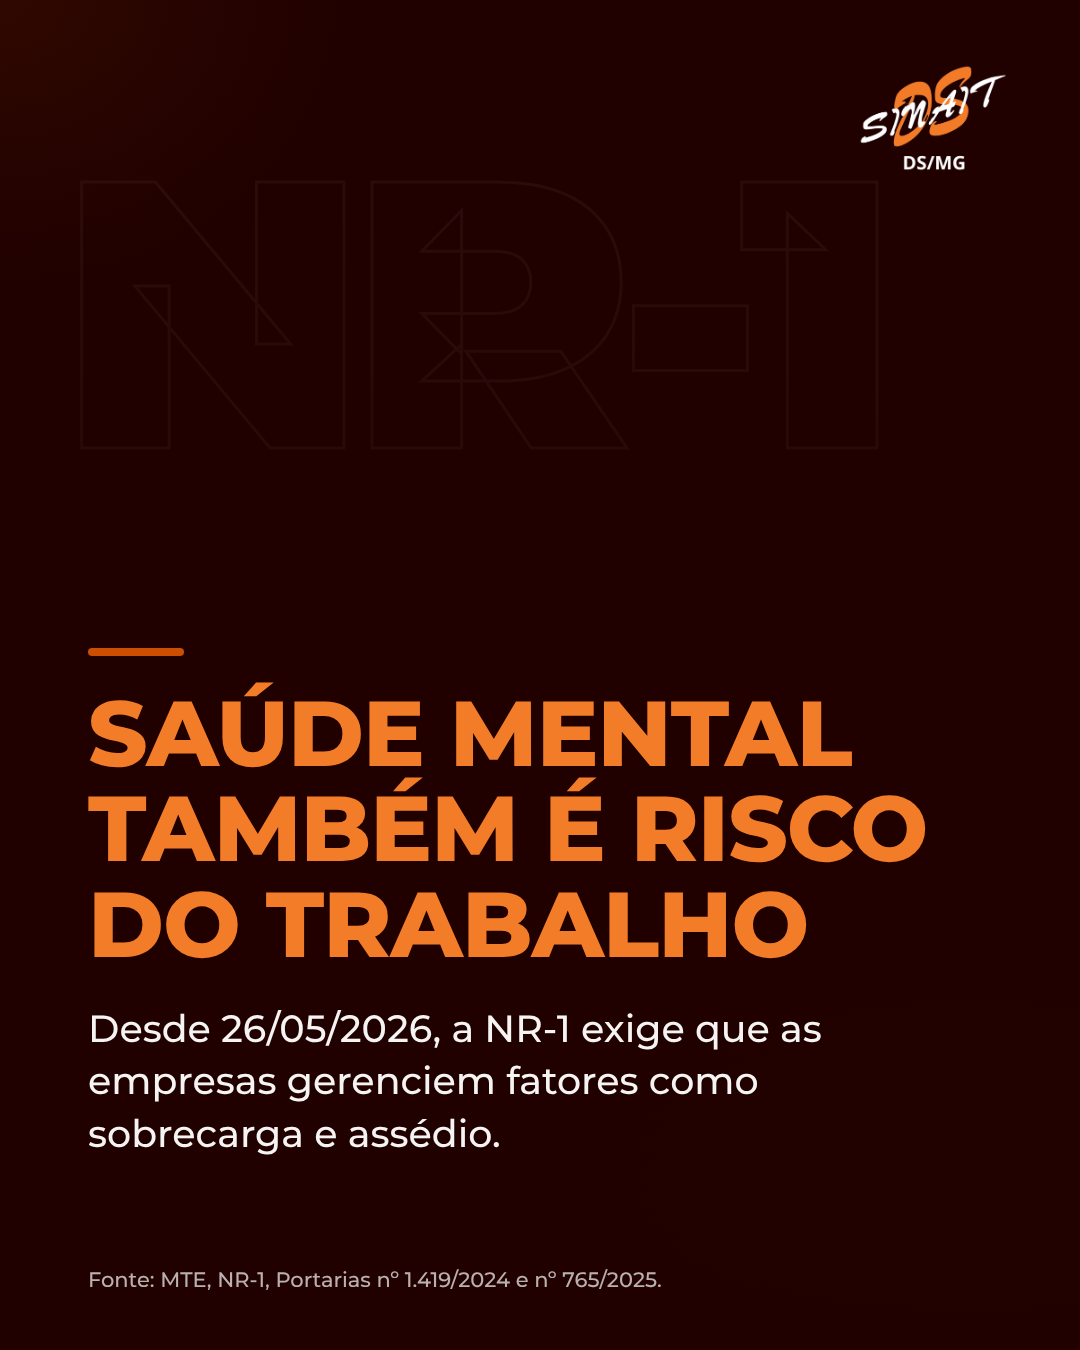
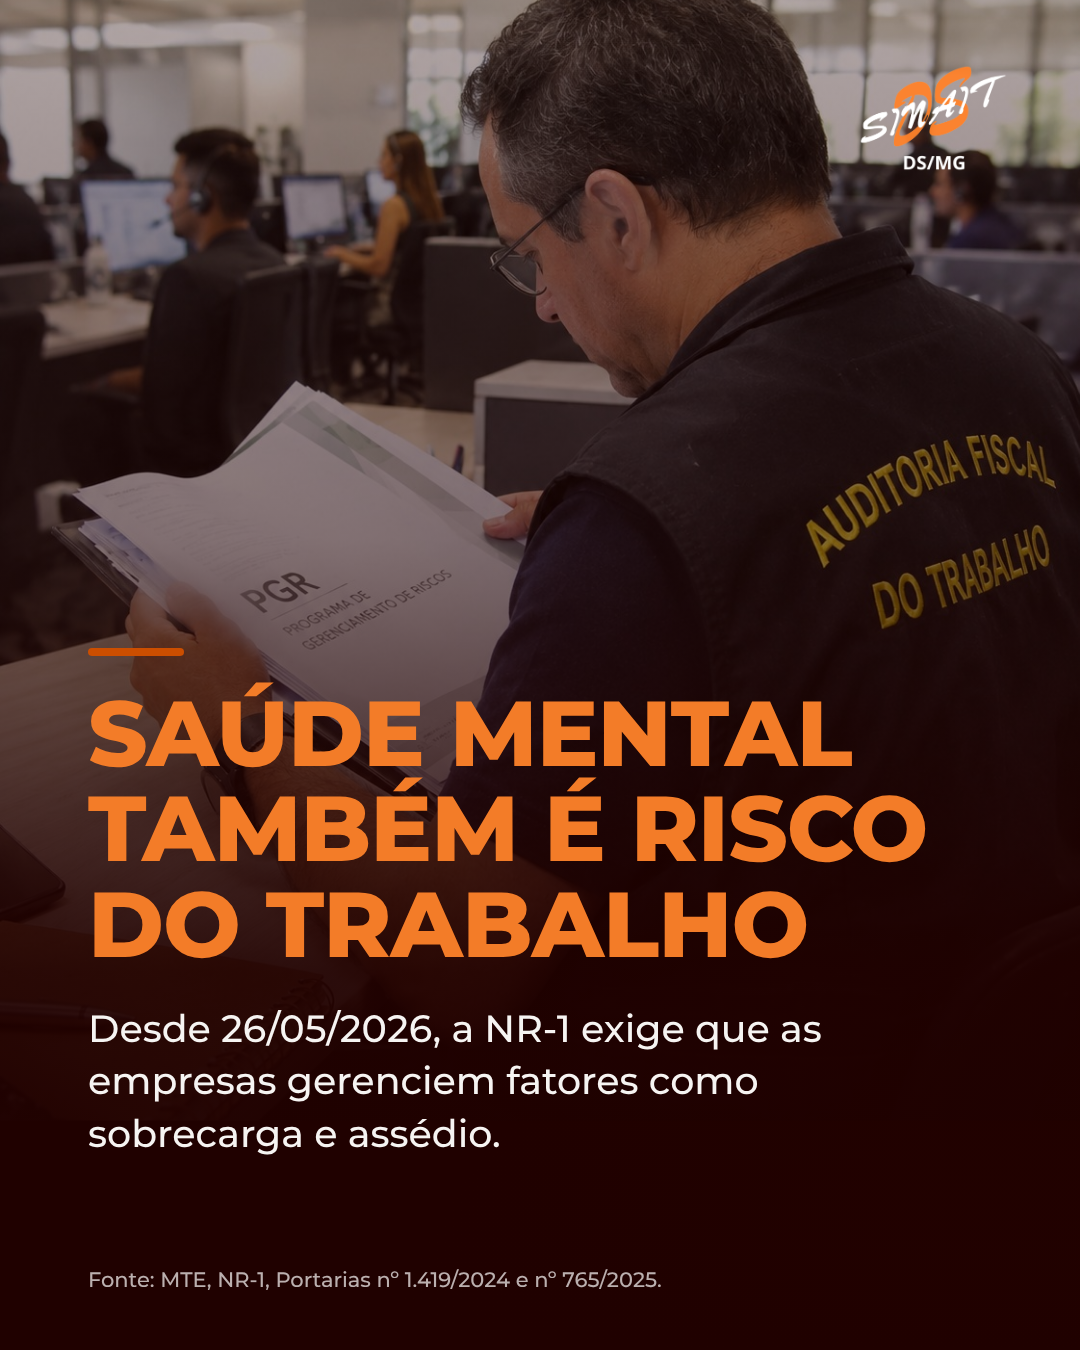
Aplica as fotos enviadas nas capas e posts únicos de novembro
Claude-Session: https://claude.ai/code/session_011HvaTJFJJFHDm1z7jLavn3

diff --git a/posts-novembro-2026/index.html b/posts-novembro-2026/index.html
@@ -85,7 +85,7 @@ body.export .wrap { width: 1080px; height: 1350px; aspect-ratio: auto; }
 // foto: arquivo em fotos/ (ex.: fotos/04-11.jpg). Se não existir, entra a versão tipográfica.
 const F_GUIA = 'MTE, Guia de Informações sobre os Fatores de Riscos Psicossociais Relacionados ao Trabalho (2025).';
 const POSTS = [
-  { id: '04-11-discriminacao-no-trabalho', data: '04/11', nome: 'Carrossel · Discriminação no trabalho: o que a lei proíbe', foto: '04-11', ghost: 'Igualdade', slides: [
+  { id: '04-11-discriminacao-no-trabalho', data: '04/11', nome: 'Carrossel · Discriminação no trabalho: o que a lei proíbe', foto: '04-11', fotoStyle: 'transform:translateY(-21%)', ghost: 'Igualdade', slides: [
     { tipo: 'capa', titulo: 'Discriminação no trabalho', texto: 'Novembro: mês de falar de igualdade de oportunidades.' },
     { eyebrow: 'Está na Constituição', titulo: 'É proibido diferenciar', texto: 'salário, função ou critério de admissão por sexo, idade, cor ou estado civil.*', fonte: '*CF/88, art. 7º, XXX.' },
     { eyebrow: 'E tem lei específica', titulo: 'Lei 9.029/1995', texto: 'Proíbe qualquer prática discriminatória para entrar ou continuar no emprego, por sexo, origem, raça, cor, estado civil, situação familiar, deficiência, idade, entre outros motivos.**', fonte: '**Lei nº 9.029/1995, art. 1º.' },
@@ -93,7 +93,7 @@ const POSTS = [
     { eyebrow: 'Quem recebe denúncia', titulo: 'O MTE, pelo Sistema Ipê, e o Ministério Público do Trabalho.' },
     { tipo: 'cta', titulo: 'Viu ou viveu discriminação no trabalho?', texto: 'Denuncie e compartilhe com quem precisa saber.', acao: 'Denuncie · Sistema Ipê (MTE)' },
   ]},
-  { id: '06-11-nr1-saude-mental', data: '06/11', nome: 'Post único · NR-1: saúde mental também é risco do trabalho', foto: '06-11', ghost: 'NR-1', slides: [
+  { id: '06-11-nr1-saude-mental', data: '06/11', nome: 'Post único · NR-1: saúde mental também é risco do trabalho', foto: '06-11', fotoStyle: 'transform:translateY(-17%)', ghost: 'NR-1', slides: [
     { tipo: 'capa', titulo: 'Saúde mental também é risco do trabalho', texto: 'Desde 26/05/2026, a NR-1 exige que as empresas gerenciem fatores como sobrecarga e assédio.', fonte: 'Fonte: MTE, NR-1, Portarias nº 1.419/2024 e nº 765/2025.' },
   ]},
   { id: '10-11-riscos-psicossociais', data: '10/11', nome: 'Carrossel · Riscos psicossociais: o que são e como aparecem', foto: '10-11', ghost: 'Risco', slides: [
@@ -121,7 +121,7 @@ const POSTS = [
   { id: '25-11-cipa-assedio', data: '25/11', nome: 'Post único · A CIPA também cuida do assédio (extra sugerido)', foto: '25-11', ghost: 'CIPA', slides: [
     { tipo: 'capa', titulo: 'A CIPA também cuida do assédio', texto: 'Desde a Lei 14.457/2022, a CIPA inclui a prevenção e o combate ao assédio sexual e a outras formas de violência no trabalho.', fonte: 'Fonte: Lei nº 14.457/2022, art. 23.' },
   ]},
-  { id: '26-11-96-anos-ministerio-do-trabalho', data: '26/11', nome: 'Post único · 96 anos do Ministério do Trabalho', foto: '26-11', ghost: '96', ghostCheio: true, slides: [
+  { id: '26-11-96-anos-ministerio-do-trabalho', data: '26/11', nome: 'Post único · 96 anos do Ministério do Trabalho', foto: '26-11', fotoStyle: 'transform:translateY(-22%)', ghost: '96', ghostCheio: true, slides: [
     { tipo: 'capa', titulo: '96 anos do Ministério do Trabalho', texto: 'Só em 2025: <b>2.772</b> resgatados da escravidão e <b>4.318</b> crianças e adolescentes afastados do trabalho infantil.', fonte: 'Fontes: MTE/SIT, balanço 2025; MTE, Inspeção do Trabalho: ações fiscais e afastamentos 2025.' },
   ]},
   { id: '30-11-novembro-em-acao', data: '30/11', nome: 'Carrossel · Novembro em ação (recap)', foto: '30-11', ghost: 'Nov', slides: [
@@ -143,7 +143,7 @@ function slideHTML(post, s, i, n) {
   let bg = '<div class="bg glow"></div>';
   if (capa) {
     const ghost = post.ghost ? `<div class="ghost${post.ghostCheio ? ' cheio' : ''}">${post.ghost}</div>` : '';
-    const foto = post.foto ? `<img class="bg foto" src="fotos/${post.foto}.jpg" alt="" onerror="this.remove()"><div class="bg overlay"></div>` : '';
+    const foto = post.foto ? `<img class="bg foto" src="fotos/${post.foto}.jpg" alt="" style="${post.fotoStyle || ''}" onerror="this.remove()"><div class="bg overlay"></div>` : '';
     bg = `<div class="bg glow"></div>${ghost}${foto}`;
   }
   const barras = capa && post.barras ? `<div class="barras">
